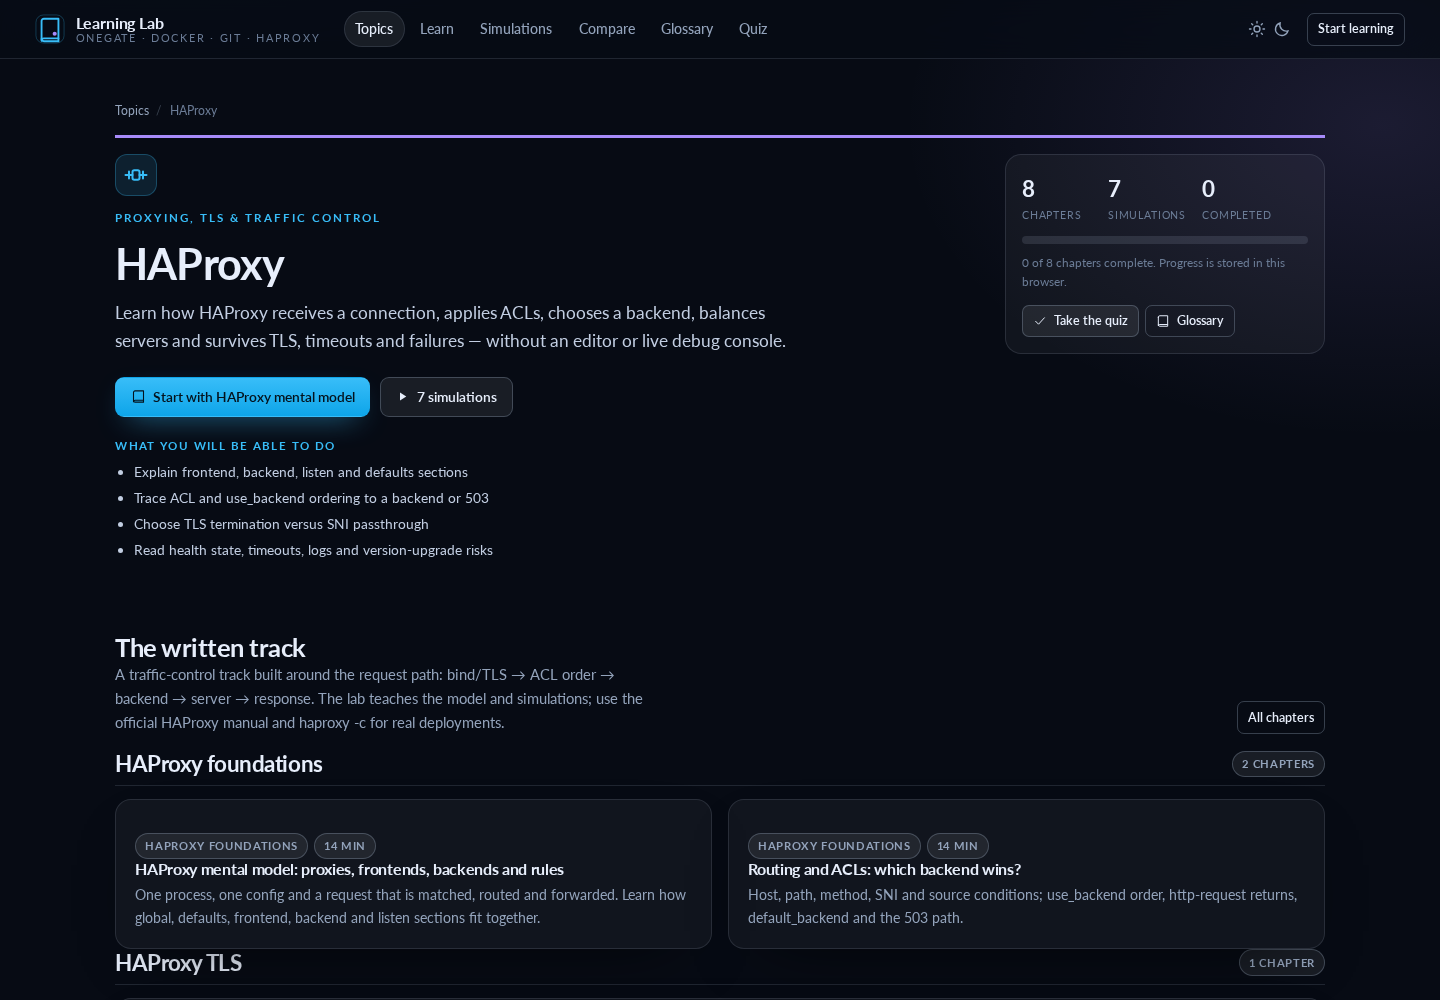
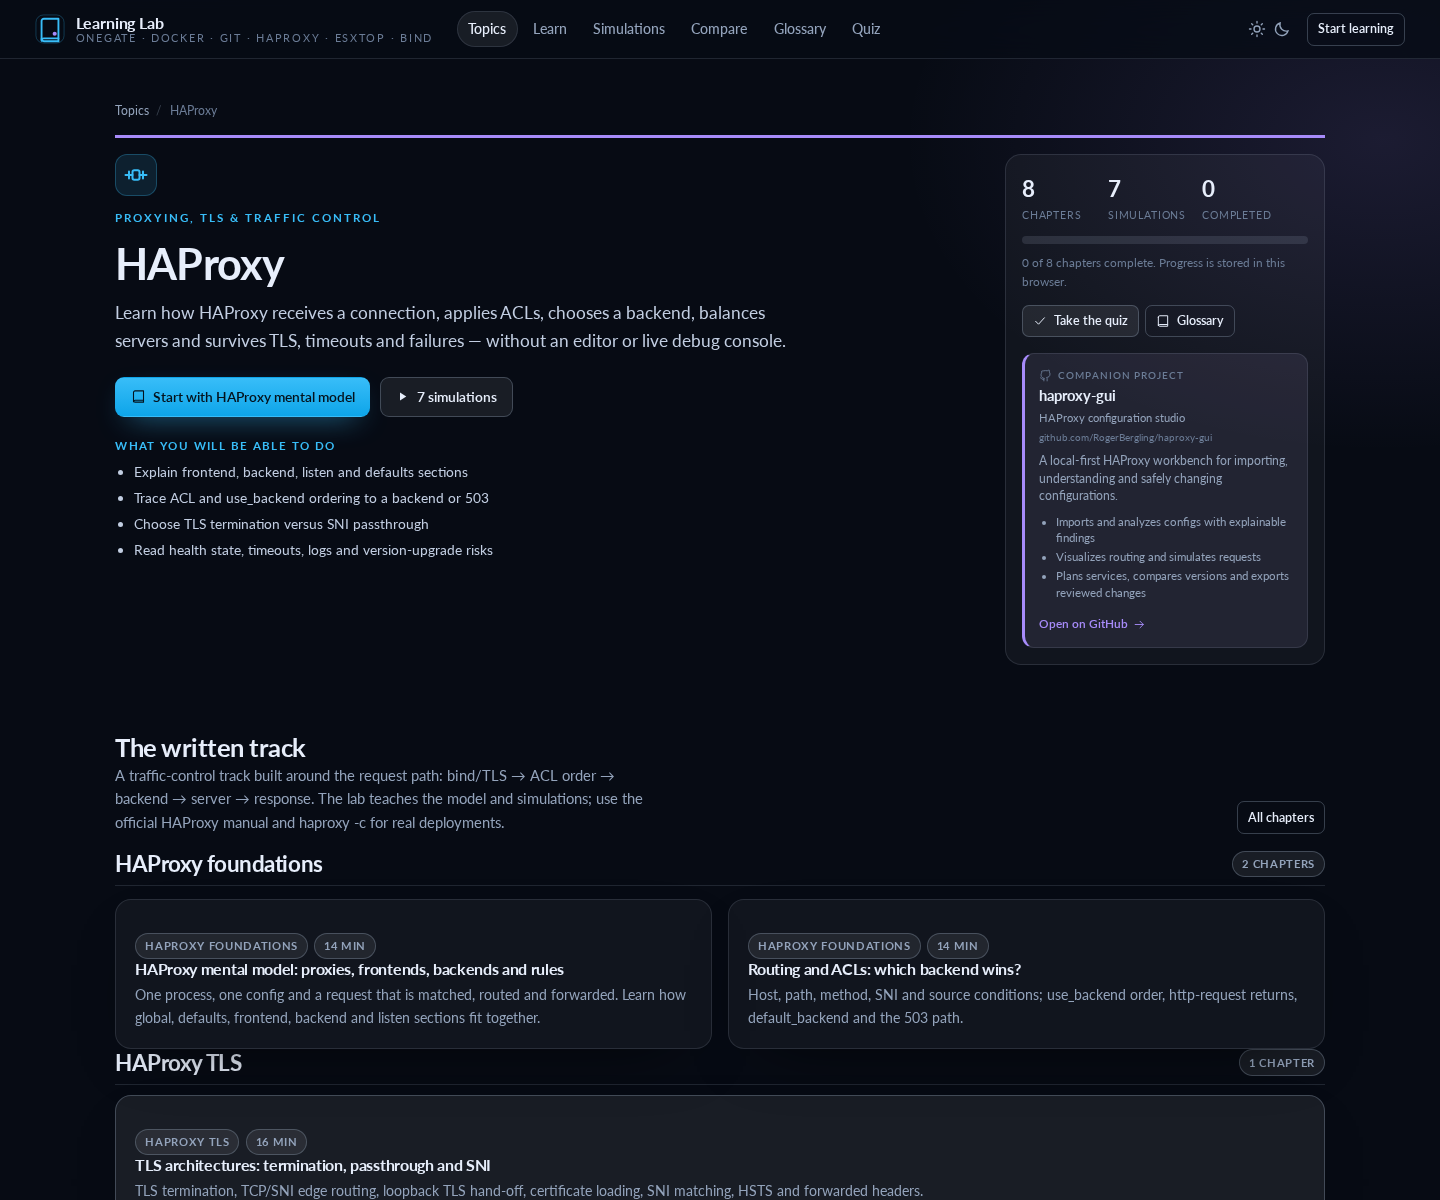
Pair home track cards with GitHub project boxes
- Replace the single-link home track boxes with a learning link plus a separate companion project box\n- Keep the learning track as the primary action and add a short tool explanation with a GitHub link\n- Show the full GitHub URL on topic-page companion cards\n- Add a learning-only note for OneGate, which has no companion repository\n- Refresh home and HAProxy topic screenshots; bump version to 2.5.0

diff --git a/public/assets/css/app.css b/public/assets/css/app.css
@@ -203,16 +203,44 @@ code, kbd, pre { font-family: var(--mono); font-size: .88em; }
 
 /* ---------- topics / learning hub ---------- */
 .topic-grid { display: grid; gap: 1rem; grid-template-columns: repeat(auto-fit, minmax(280px, 1fr)); }
-.topic-card { display: flex; flex-direction: column; gap: .55rem; border-top: 3px solid var(--accent); }
+.topic-card { display: flex; flex-direction: column; gap: 0; padding: 0; border-top: 3px solid var(--accent); transition: transform .18s ease, border-color .18s ease; }
+.topic-card:hover { transform: translateY(-3px); border-color: var(--line-strong); }
 .topic-card.ok { border-top-color: var(--ok); }
 .topic-card.orange { border-top-color: var(--orange); }
 .topic-card.violet { border-top-color: var(--accent-2); }
 .topic-card.teal { border-top-color: var(--teal); }
 .topic-card.pink { border-top-color: var(--pink); }
+.topic-card-main { display: flex; flex: 1; flex-direction: column; gap: .55rem; padding: 1.15rem 1.2rem; color: inherit; text-decoration: none; transition: background .18s ease; }
+.topic-card-main:hover { background: color-mix(in srgb, var(--accent) 4%, transparent); }
 .topic-card-head { display: flex; align-items: center; justify-content: space-between; gap: .6rem; }
 .topic-card h3 { font-size: 1.08rem; margin: .1rem 0 0; }
 .topic-card p { margin: 0; }
 .topic-cta { display: inline-flex; align-items: center; gap: .35rem; color: var(--accent); font-size: .78rem; font-weight: 650; margin-top: auto; padding-top: .7rem; }
+.topic-project-mini { display: flex; flex-direction: column; gap: .16rem; padding: .8rem 1.2rem .9rem; border-top: 1px solid var(--line); background: color-mix(in srgb, var(--accent) 4%, var(--panel-2)); color: var(--text); text-decoration: none; transition: background .18s ease; }
+.topic-project-mini:hover { background: color-mix(in srgb, var(--accent) 8%, var(--panel-2)); }
+.topic-project-mini-head { display: inline-flex; align-items: center; gap: .32rem; color: var(--dim); font-size: .6rem; font-weight: 650; letter-spacing: .1em; text-transform: uppercase; }
+.topic-project-mini strong { font-size: .84rem; line-height: 1.2; }
+.topic-project-mini-label { color: var(--muted); font-size: .66rem; }
+.topic-project-mini p { margin: .18rem 0 .1rem; color: var(--muted); font-size: .72rem; line-height: 1.4; }
+.topic-project-mini .topic-project-link { color: var(--accent); font-size: .7rem; }
+.topic-project-mini.ok { background: color-mix(in srgb, var(--ok) 4%, var(--panel-2)); }
+.topic-project-mini.ok:hover { background: color-mix(in srgb, var(--ok) 8%, var(--panel-2)); }
+.topic-project-mini.ok .topic-project-link { color: var(--ok); }
+.topic-project-mini.orange { background: color-mix(in srgb, var(--orange) 4%, var(--panel-2)); }
+.topic-project-mini.orange:hover { background: color-mix(in srgb, var(--orange) 8%, var(--panel-2)); }
+.topic-project-mini.orange .topic-project-link { color: var(--orange); }
+.topic-project-mini.violet { background: color-mix(in srgb, var(--accent-2) 4%, var(--panel-2)); }
+.topic-project-mini.violet:hover { background: color-mix(in srgb, var(--accent-2) 8%, var(--panel-2)); }
+.topic-project-mini.violet .topic-project-link { color: var(--accent-2); }
+.topic-project-mini.teal { background: color-mix(in srgb, var(--teal) 4%, var(--panel-2)); }
+.topic-project-mini.teal:hover { background: color-mix(in srgb, var(--teal) 8%, var(--panel-2)); }
+.topic-project-mini.teal .topic-project-link { color: var(--teal); }
+.topic-project-mini.pink { background: color-mix(in srgb, var(--pink) 4%, var(--panel-2)); }
+.topic-project-mini.pink:hover { background: color-mix(in srgb, var(--pink) 8%, var(--panel-2)); }
+.topic-project-mini.pink .topic-project-link { color: var(--pink); }
+.topic-project-mini.is-note { background: var(--panel-2); cursor: default; }
+.topic-project-mini.is-note:hover { background: var(--panel-2); }
+.topic-project-mini.is-note strong { color: var(--muted); }
 .topic-icon { width: 42px; height: 42px; border-radius: 12px; display: grid; place-items: center; color: var(--accent); background: color-mix(in srgb, var(--accent) 12%, transparent); border: 1px solid color-mix(in srgb, var(--accent) 28%, transparent); flex: 0 0 auto; }
 .topic-card.ok .topic-icon { color: var(--ok); background: color-mix(in srgb, var(--ok) 12%, transparent); border-color: color-mix(in srgb, var(--ok) 28%, transparent); }
 .topic-card.orange .topic-icon { color: var(--orange); background: color-mix(in srgb, var(--orange) 12%, transparent); border-color: color-mix(in srgb, var(--orange) 28%, transparent); }
@@ -275,6 +303,7 @@ code, kbd, pre { font-family: var(--mono); font-size: .88em; }
 .topic-project-eyebrow { display: inline-flex; align-items: center; gap: .35rem; color: var(--dim); font-size: .62rem; font-weight: 600; letter-spacing: .1em; text-transform: uppercase; }
 .topic-project strong { font-size: .92rem; line-height: 1.2; }
 .topic-project-label { color: var(--muted); font-size: .7rem; }
+.topic-project-url { color: var(--dim); font-family: var(--mono); font-size: .62rem; word-break: break-all; }
 .topic-project p { margin: .18rem 0 .2rem; color: var(--muted); font-size: .76rem; line-height: 1.42; }
 .topic-project ul { margin: .05rem 0 .3rem; padding-left: 1.05rem; color: var(--muted); font-size: .72rem; line-height: 1.45; }
 .topic-project li { margin: .14rem 0; }

diff --git a/public/assets/js/pages/home.js b/public/assets/js/pages/home.js
@@ -8,15 +8,28 @@ import { icon, esc } from '../ui.js';
 function topicCard(topic) {
   const docs = DOCS.filter((doc) => doc.topic === topic.id);
   const scenarios = scenariosByTopic(topic.id);
-  return `<a class="card topic-card ${topic.accent}" href="#/topic/${topic.id}">
-    <div class="topic-card-head">
-      <div class="topic-icon">${icon(topic.icon, 24)}</div>
-      <span class="pill">${docs.length} chapters · ${scenarios.length} sims</span>
-    </div>
-    <h3>${esc(topic.title)}</h3>
-    <p>${esc(topic.summary)}</p>
-    <span class="topic-cta">${icon('arrow', 14)} Enter ${esc(topic.shortTitle)} track</span>
-  </a>`;
+  return `<article class="card topic-card ${topic.accent}">
+    <a class="topic-card-main" href="#/topic/${topic.id}">
+      <div class="topic-card-head">
+        <div class="topic-icon">${icon(topic.icon, 24)}</div>
+        <span class="pill">${docs.length} chapters · ${scenarios.length} sims</span>
+      </div>
+      <h3>${esc(topic.title)}</h3>
+      <p>${esc(topic.summary)}</p>
+      <span class="topic-cta">${icon('arrow', 14)} Enter ${esc(topic.shortTitle)} track</span>
+    </a>
+    ${topic.project ? `<a class="topic-project-mini ${topic.accent}" href="${esc(topic.project.url)}" target="_blank" rel="noopener noreferrer">
+      <span class="topic-project-mini-head">${icon('github', 13)} Companion project</span>
+      <strong>${esc(topic.project.name)}</strong>
+      <span class="topic-project-mini-label">${esc(topic.project.label)}</span>
+      <p>${esc(topic.project.summary)}</p>
+      <span class="topic-project-link">View on GitHub ${icon('arrow', 12)}</span>
+    </a>` : `<div class="topic-project-mini is-note">
+      <span class="topic-project-mini-head">${icon('book', 13)} Learning-only track</span>
+      <strong>No companion tool</strong>
+      <p>Every OneGate role is simulated inside this lab; no external project is required.</p>
+    </div>`}
+  </article>`;
 }
 
 export function renderHome(view) {

diff --git a/public/assets/js/pages/topic.js b/public/assets/js/pages/topic.js
@@ -77,6 +77,7 @@ export function renderTopic(view, id) {
           <span class="topic-project-eyebrow">${icon('github', 13)} Companion project</span>
           <strong>${esc(topic.project.name)}</strong>
           <span class="topic-project-label">${esc(topic.project.label)}</span>
+          <span class="topic-project-url">${esc(topic.project.url.replace(/^https:\/\//, ''))}</span>
           <p>${esc(topic.project.summary)}</p>
           <ul>${topic.project.features.map((feature) => `<li>${esc(feature)}</li>`).join('')}</ul>
           <span class="topic-project-link">Open on GitHub ${icon('arrow', 13)}</span>

diff --git a/README.md b/README.md
@@ -217,7 +217,7 @@ Local development serves the committed fallback:
 
 ```json
 {
-  "version": "2.4.0",
+  "version": "2.5.0",
   "imageTag": "local",
   "commit": "local",
   "buildDate": null
@@ -245,7 +245,7 @@ For a manual Docker build, stamp it explicitly:
 
 ```bash
 docker build \
-  --build-arg APP_VERSION=2.4.0 \
+  --build-arg APP_VERSION=2.5.0 \
   --build-arg IMAGE_TAG=manual \
   --build-arg GIT_SHA="$(git rev-parse --short HEAD)" \
   --build-arg BUILD_DATE="$(date -u +%Y-%m-%dT%H:%M:%SZ)" \
@@ -317,7 +317,7 @@ These controls complement the application hardening already present: read-only c
 | **Quiz** (`#/quiz`) | A 53-question knowledge check across the tracks, with saved progress |
 | **Self-check** (`#/selftest`) | Runtime validation of topics, scenarios, tokens, quizzes and all docs |
 
-Topic pages also include a compact **Companion project** card for Docker (`docker-mgmt`), Git (`git-create`), HAProxy (`haproxy-gui`), ESXtop (`esxtop-perf`) and BIND (`bind-gui`), with a short explanation of what each tool does and a direct GitHub link.
+The home-page track boxes and topic pages also include a **Companion project** card for Docker (`docker-mgmt`), Git (`git-create`), HAProxy (`haproxy-gui`), ESXtop (`esxtop-perf`) and BIND (`bind-gui`), with a short explanation of what each tool does and a direct GitHub link. The learning track remains the primary link.
 
 Every scenario has five tabs:
 
